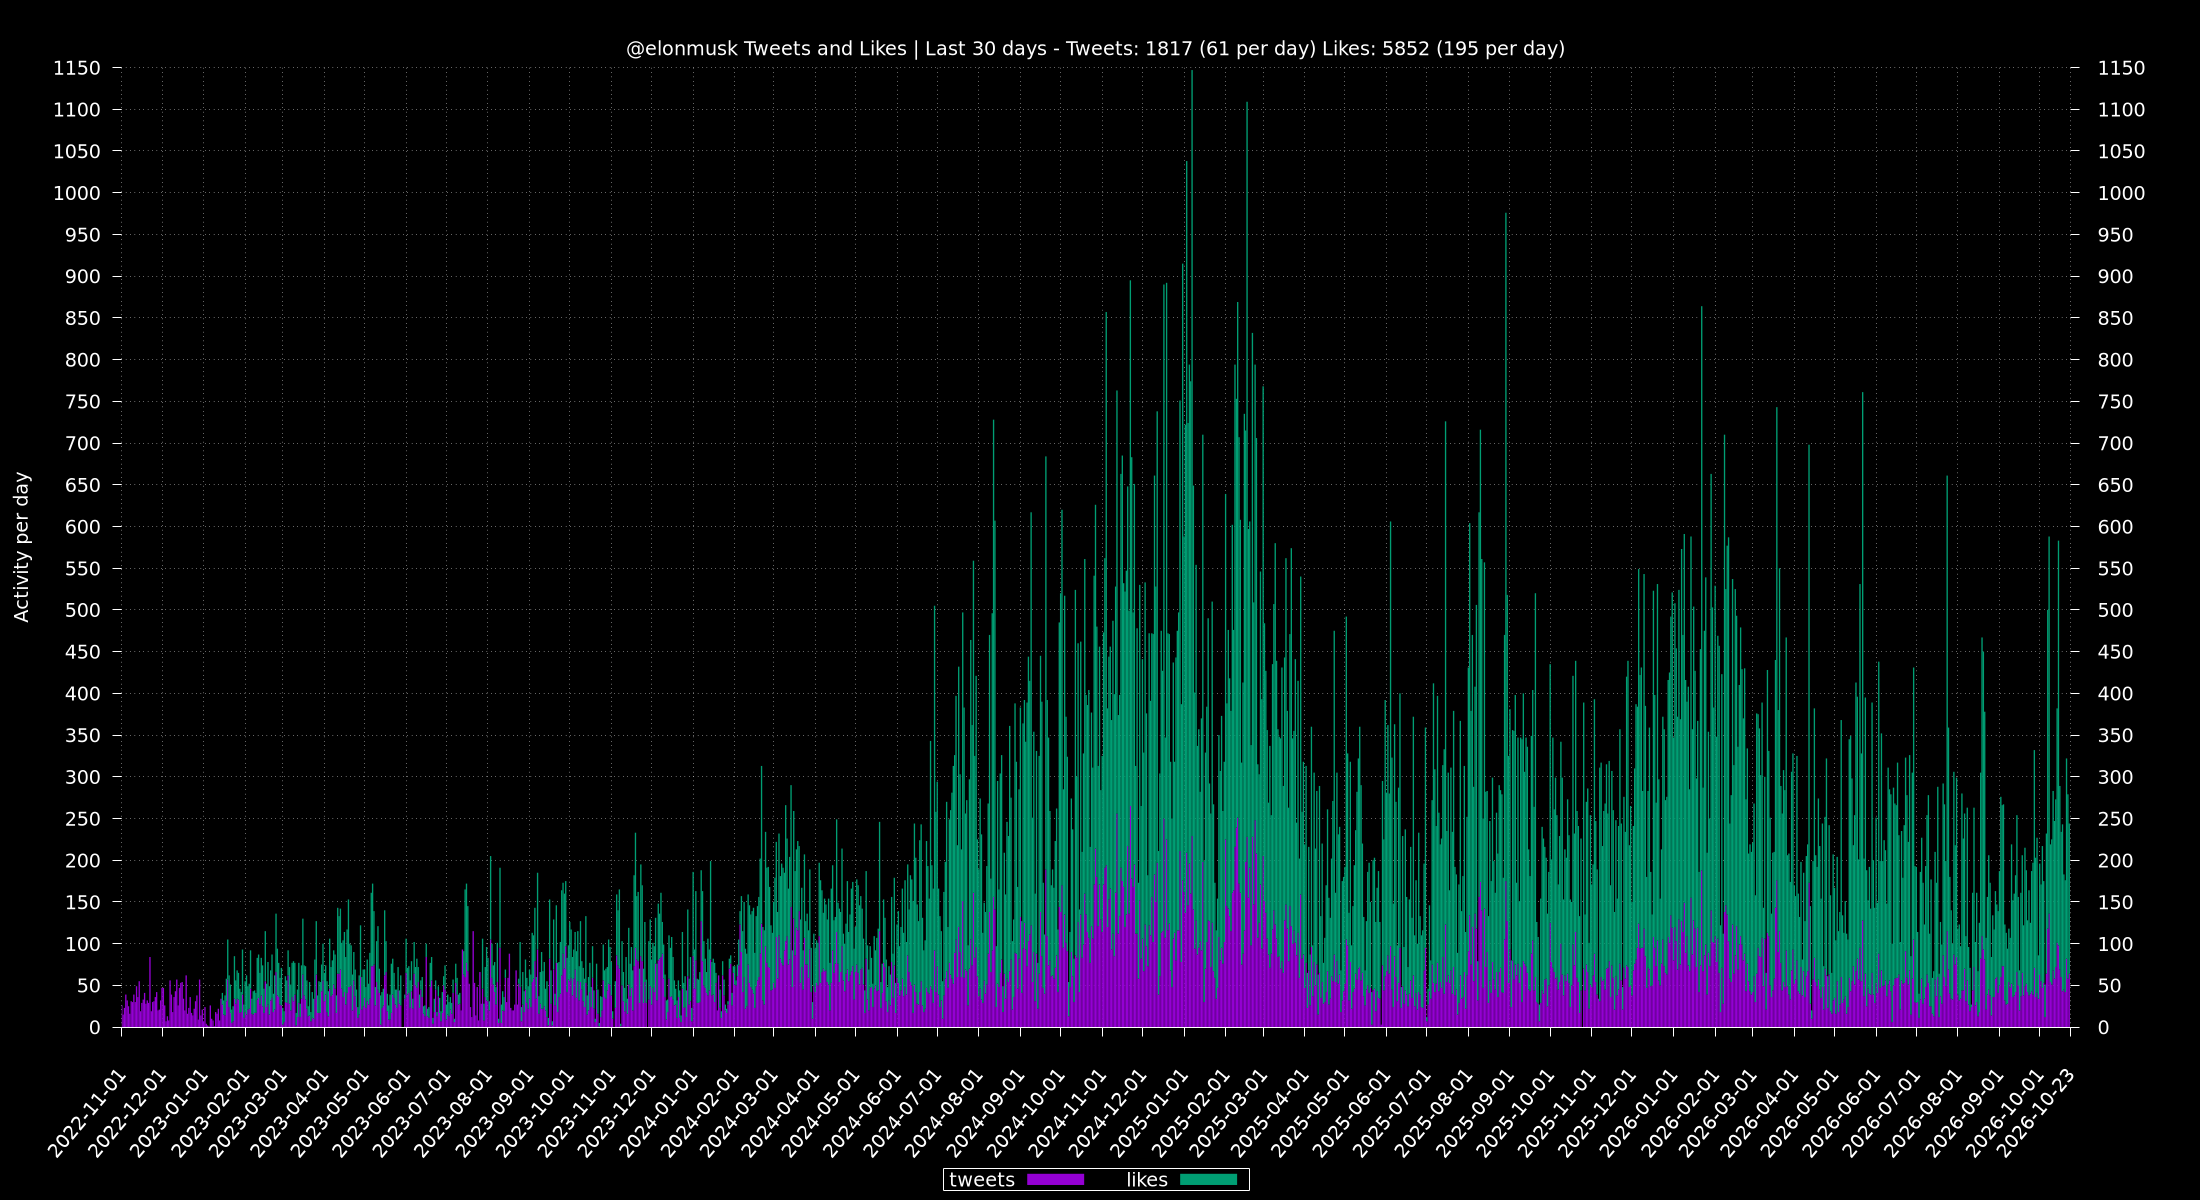
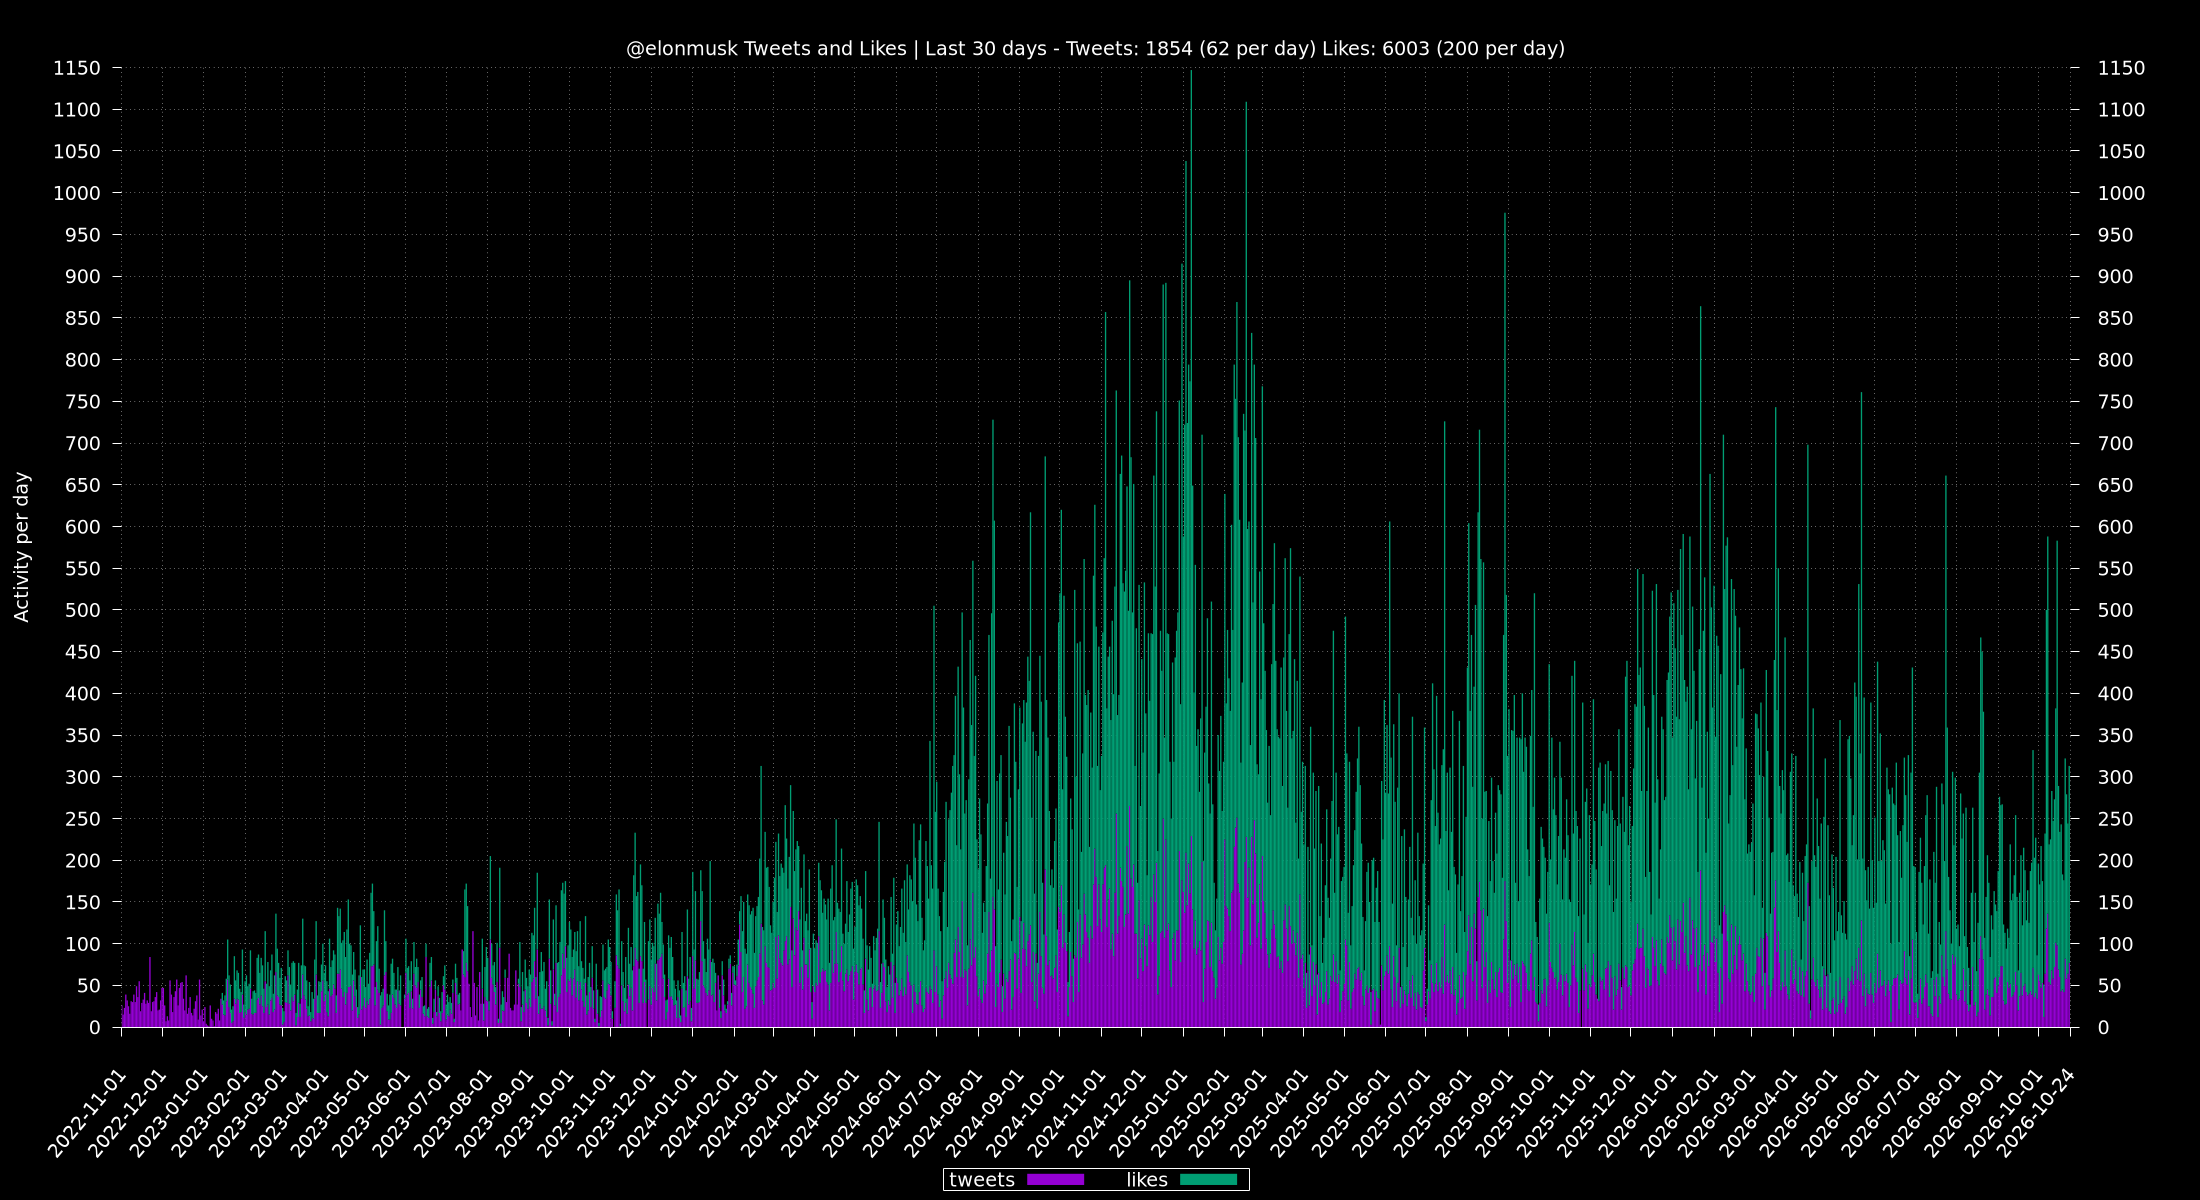
update via cron

Changed region(s): [[0.1545, 0.2158, 0.9582, 0.8633], [0.1855, 0.8942, 0.9273, 0.9558], [0.6182, 0.0308, 0.6491, 0.0617]]

diff --git a/totals/README.md b/totals/README.md
@@ -1,6 +1,6 @@
 ## Last 30 Days
-Tweets: 1817 (61 per day)\
-Likes: 5852 (195 per day)
+Tweets: 1854 (62 per day)\
+Likes: 6003 (200 per day)
 
 ## 24 Hours
 Max: [**341**](../misc/most-tweets_24-hr.csv) - From `2024-11-23 14:29:53 CST` To `2024-11-24 14:28:44 CST`
